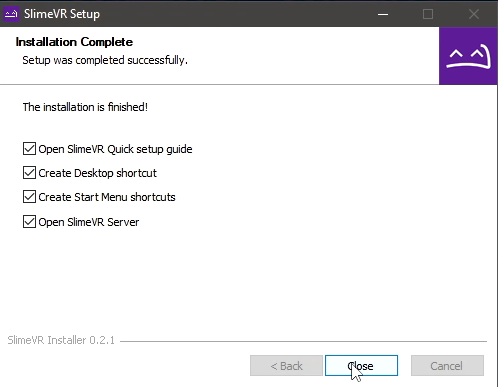
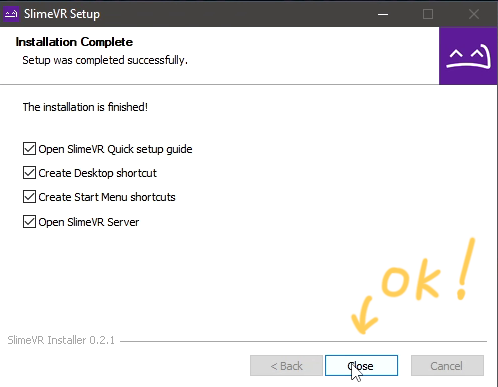
update  setup wizard

Changed region(s): [[0.6928, 0.6202, 0.9639, 0.8682]]

diff --git a/_pages/slimevr-docs/onboarding/setup-wizard.md b/_pages/slimevr-docs/onboarding/setup-wizard.md
@@ -73,3 +73,8 @@ sidebar:
 
 ![slimevronboard-1](/assets/images/slimeonboard/setupa4.png){: .align-center}
 <br>
+
+เท่านี้ การตั้งค่าเบื้องต้นก็เรียบร้อยแล้ว แต่เพื่อความถูกต้องในการใช้งาน และให้ประสิทธิภาพการจับตำแหน่งทำได้ดีที่สุด คุณจะต้องทำตามรายการการเตรียมพร้อมแทร็กเกอร์ด้วย ซึ่งจะแนะนำในหน้าถัดไป
+
+![slimevronboard-1](/assets/images/slimeonboard/setup13.png){: .align-center}
+<br>
